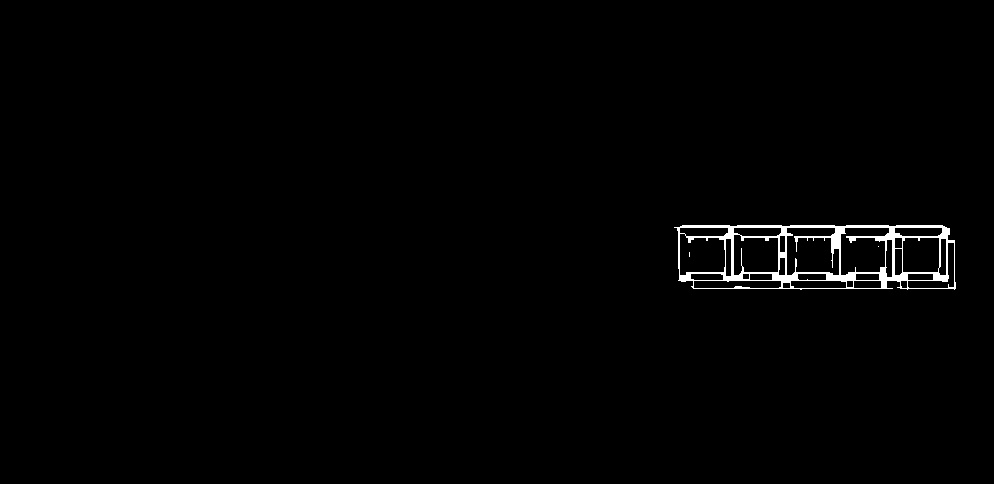
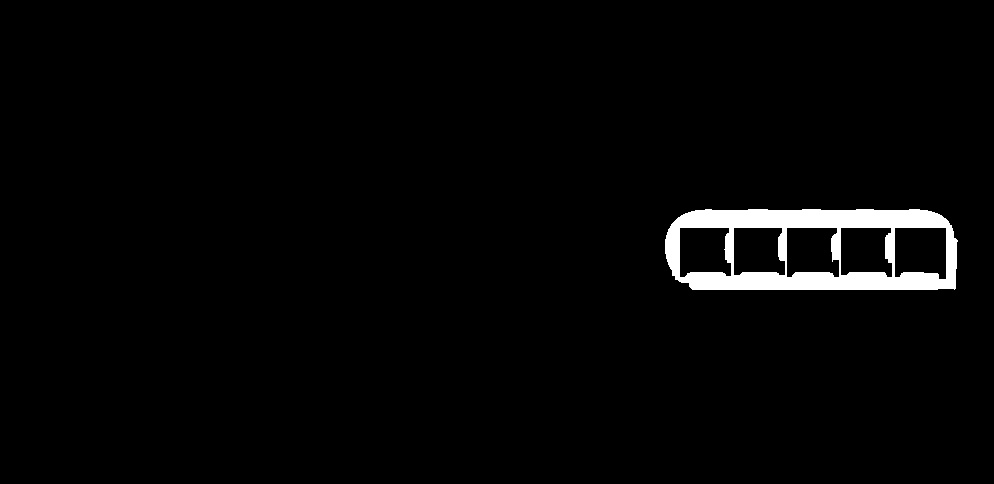
shape saving issue

Changed region(s): [[0.6549, 0.4339, 0.9668, 0.6198]]

diff --git a/bbs-backend/main.py b/bbs-backend/main.py
@@ -759,7 +759,7 @@ def detect_shapes(image_path, debug=True):
     
     # Apply adaptive thresholding for better shape detection
     thresh = cv2.adaptiveThreshold(gray, 255, cv2.ADAPTIVE_THRESH_GAUSSIAN_C, 
-                                   cv2.THRESH_BINARY_INV, 11, 5)
+                                   cv2.THRESH_BINARY_INV, 101, 10)
 
     # Use morphological closing to merge broken parts of shapes
     kernel = np.ones((3, 3), np.uint8)
@@ -810,39 +810,197 @@ def detect_shapes(image_path, debug=True):
 
 
 
-def process_shapes(shape_paths):
-    shape_data = []
+# def process_shapes(shape_paths):
+#     shape_data = []
     
-    for shape_path in shape_paths:
-        image = cv2.imread(shape_path)
-        gray = cv2.cvtColor(image, cv2.COLOR_BGR2GRAY)
+#     for shape_path in shape_paths:
+#         image = cv2.imread(shape_path)
+#         gray = cv2.cvtColor(image, cv2.COLOR_BGR2GRAY)
         
-        _, thresh = cv2.threshold(gray, 50, 255, cv2.THRESH_BINARY_INV)
-        contours, _ = cv2.findContours(thresh, cv2.RETR_EXTERNAL, cv2.CHAIN_APPROX_SIMPLE)
+#         _, thresh = cv2.threshold(gray, 50, 255, cv2.THRESH_BINARY_INV)
+#         contours, _ = cv2.findContours(thresh, cv2.RETR_EXTERNAL, cv2.CHAIN_APPROX_SIMPLE)
         
-        shape_array = np.zeros((8, 8), dtype=int)
+#         shape_array = np.zeros((8, 8), dtype=int)
         
-        x_min, y_min, x_max, y_max = np.inf, np.inf, 0, 0
-        for cnt in contours:
-            x, y, w, h = cv2.boundingRect(cnt)
-            x_min, y_min = min(x_min, x), min(y_min, y)
-            x_max, y_max = max(x_max, x + w), max(y_max, y + h)
+#         x_min, y_min, x_max, y_max = np.inf, np.inf, 0, 0
+#         for cnt in contours:
+#             x, y, w, h = cv2.boundingRect(cnt)
+#             x_min, y_min = min(x_min, x), min(y_min, y)
+#             x_max, y_max = max(x_max, x + w), max(y_max, y + h)
         
-        shape_width, shape_height = x_max - x_min, y_max - y_min
+#         shape_width, shape_height = x_max - x_min, y_max - y_min
         
-        # Prevent division errors and ensure proper scaling
-        block_size_x = max(shape_width / 8, 1)
-        block_size_y = max(shape_height / 8, 1)
+#         # Prevent division errors and ensure proper scaling
+#         block_size_x = max(shape_width / 8, 1)
+#         block_size_y = max(shape_height / 8, 1)
         
-        for cnt in contours:
-            x, y, w, h = cv2.boundingRect(cnt)
-            grid_x = min(max(int((x - x_min) / block_size_x), 0), 7)
-            grid_y = min(max(int((y - y_min) / block_size_y), 0), 7)
-            shape_array[grid_y, grid_x] = 1
+#         for cnt in contours:
+#             x, y, w, h = cv2.boundingRect(cnt)
+#             grid_x = min(max(int((x - x_min) / block_size_x), 0), 7)
+#             grid_y = min(max(int((y - y_min) / block_size_y), 0), 7)
+#             shape_array[grid_y, grid_x] = 1
         
-        shape_data.append(shape_array.tolist())
+#         shape_data.append(shape_array.tolist())
     
-    return shape_data
+#     return shape_data
+
+
+
+
+
+
+# def process_cropped_shapes(directory):
+#     if not os.path.exists(directory):
+#         raise ValueError(f"Directory does not exist: {directory}")
+    
+#     shape_matrices = {}
+    
+#     for filename in sorted(os.listdir(directory)):
+#         if filename.startswith("shape_") and filename.endswith(".jpg"):
+#             image_path = os.path.join(directory, filename)
+#             image = cv2.imread(image_path)
+#             if image is None:
+#                 print(f"Failed to load {filename}")
+#                 continue
+            
+#             hsv = cv2.cvtColor(image, cv2.COLOR_BGR2HSV)
+            
+#             # Define HSV range for detecting shape blocks
+#             lower_block = np.array([110, 100, 30])  # Adjust as needed
+#             upper_block = np.array([120, 160, 80])  # Adjust as needed
+            
+#             mask = cv2.inRange(hsv, lower_block, upper_block)
+            
+#             height, width = image.shape[:2]
+#             cell_size = width // 8  # Assuming an 8x8 grid per shape
+            
+#             shape_matrix = []
+#             for row in range(8):
+#                 row_data = []
+#                 for col in range(8):
+#                     x_start, y_start = col * cell_size, row * cell_size
+#                     x_end, y_end = x_start + cell_size, y_start + cell_size
+#                     cell_mask = mask[y_start:y_end, x_start:x_end]
+                    
+#                     filled = np.count_nonzero(cell_mask) > (cell_size * cell_size * 0.2)
+#                     row_data.append(1 if filled else 0)
+#                 shape_matrix.append(row_data)
+            
+#             shape_matrices[filename] = shape_matrix
+    
+#     return shape_matrices
+
+
+
+
+
+
+
+def process_cropped_shapes(directory):
+    """
+    Processes each .jpg image in 'directory' and returns a dict of:
+      {
+         "filename.jpg": <2D list (grid) of 0s/1s>
+      }
+    """
+
+    results = {}
+    filenames = sorted([f for f in os.listdir(directory) if f.endswith(".jpg")])
+
+    for filename in filenames:
+        img_path = os.path.join(directory, filename)
+        img = cv2.imread(img_path)
+        if img is None:
+            print(f"Failed to load {filename}. Skipping.")
+            continue
+
+        # Convert to HSV for background masking
+        hsv = cv2.cvtColor(img, cv2.COLOR_BGR2HSV)
+
+        # 1) Threshold out the background (tweak range if needed)
+        lower_bg = np.array([200, 50, 40], dtype=np.uint8)
+        upper_bg = np.array([240, 100, 100], dtype=np.uint8)
+        bg_mask = cv2.inRange(hsv, lower_bg, upper_bg)
+        mask = cv2.bitwise_not(bg_mask)  # Foreground (blocks) are white
+
+        # 2) Find bounding box of the shape
+        coords = cv2.findNonZero(mask)
+        if coords is None:
+            print(f"No blocks detected in {filename}.")
+            continue
+
+        x, y, w, h = cv2.boundingRect(coords)
+
+        # We'll extract just the ROI for simpler analysis
+        roi = mask[y : y + h, x : x + w]
+
+        # 3) Decide if we should apply the "5 blocks wide" strategy
+        #    We'll check if the shape is significantly wider than it is tall.
+        #    (You can tweak the ratio or do more sophisticated checks.)
+        aspect_ratio = w / float(h) if h > 0 else 0
+
+        # Threshold for deciding "it's likely 5 blocks in a row"
+        # e.g. if the bounding box is at least 4 times wider than tall
+        # (You can adjust this ratio or handle other block counts.)
+        if aspect_ratio >= 4.0:
+            # --- BLOCK SIZE STRATEGY (5 blocks in a row) ---
+            shape_array = detect_5_blocks_in_a_row(roi, w, h)
+            results[filename] = shape_array.tolist()
+
+        else:
+            # --- FALLBACK STRATEGY ---
+            # For shapes that are not obviously a single row of 5 blocks,
+            # we can do your original approach or a simpler contour-based grid.
+            shape_array = fallback_detect_blocks(roi)
+            results[filename] = shape_array.tolist()
+
+    return results
+
+
+def detect_5_blocks_in_a_row(roi, w, h):
+    """
+    Given an ROI (mask) that we suspect is 5 blocks wide in a single row,
+    slice horizontally into 5 segments. Mark each segment '1' if it has enough
+    foreground pixels, else '0'.
+    """
+    # We'll store a 1x5 grid
+    shape_array = np.zeros((1, 5), dtype=int)
+
+    # The ROI is already cropped, but we only know 'w' and 'h' from boundingRect
+    # The top-left of this ROI is (0, 0) in 'roi' coordinates
+    block_width = w // 5  # integer division
+    for i in range(5):
+        x_start = i * block_width
+        # The last block might need to go to the end if w isn't a perfect multiple of 5
+        if i < 4:
+            x_end = (i + 1) * block_width
+        else:
+            x_end = w
+
+        cell = roi[0:h, x_start:x_end]
+        # Mark as 1 if >20% of the cell's pixels are foreground
+        if cv2.countNonZero(cell) > 0.2 * cell.size:
+            shape_array[0, i] = 1
+
+    return shape_array
+
+
+def fallback_detect_blocks(roi):
+    """
+    A simple fallback approach for shapes that aren't obviously a single row of 5 blocks.
+    This can be your existing contour logic, a grid-fitting approach, etc.
+    For brevity, let's just do a single '1' if there's any foreground.
+    Replace this with your preferred fallback.
+    """
+    if cv2.countNonZero(roi) > 0:
+        return np.array([[1]])
+    else:
+        return np.array([[0]])
+
+
+
+
+
 
 
 
@@ -866,17 +1024,20 @@ async def upload_file(file: UploadFile = File(...)):
     board_matrix = process_image(cropped_board_path)
     cropped_shapes_path = crop_shapes(file_path, board_coords)
     shapes_matrices = detect_shapes(cropped_shapes_path)
-    processed_shapes = process_shapes(shapes_matrices["shapes"])
-    for i, shape in enumerate(shapes_matrices):
-        print(f"Shape {i+1}:")
-        for row in shape:
-            print(" ".join(map(str, row)))
-        print("\n")
+    # processed_shapes = process_shapes(shapes_matrices["shapes"])
+    processed_cropped_shapes = process_cropped_shapes(SHAPES_DIR)
+   
+    for name, arr in processed_cropped_shapes.items():
+        print(f"{name} =>")
+        for row in arr:
+            print(row)
+        print()
+
 
     return {
-        "cropped_board": cropped_board_path,
-        "cropped_shapes": cropped_shapes_path,
+    
         "board_matrix": board_matrix,
         "shapes": shapes_matrices,
-        "processed_shapes": processed_shapes
+        # "processed_shapes": processed_shapes,
+        "process_cropped_shapes": processed_cropped_shapes
     }
